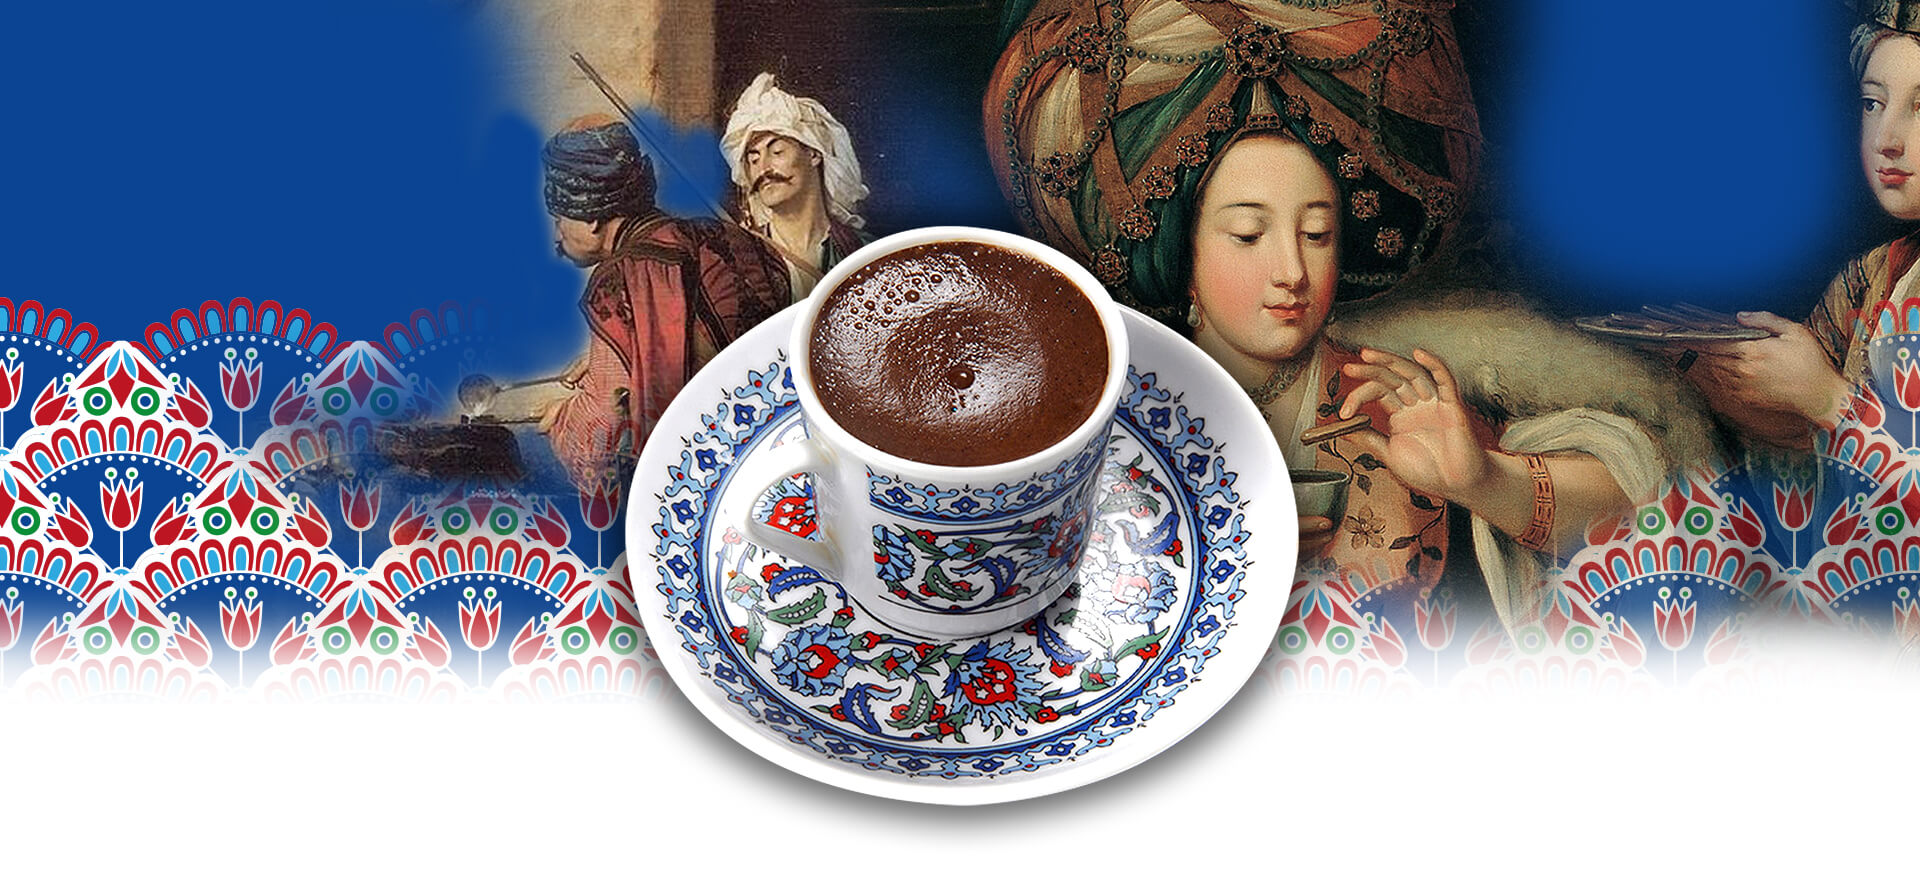
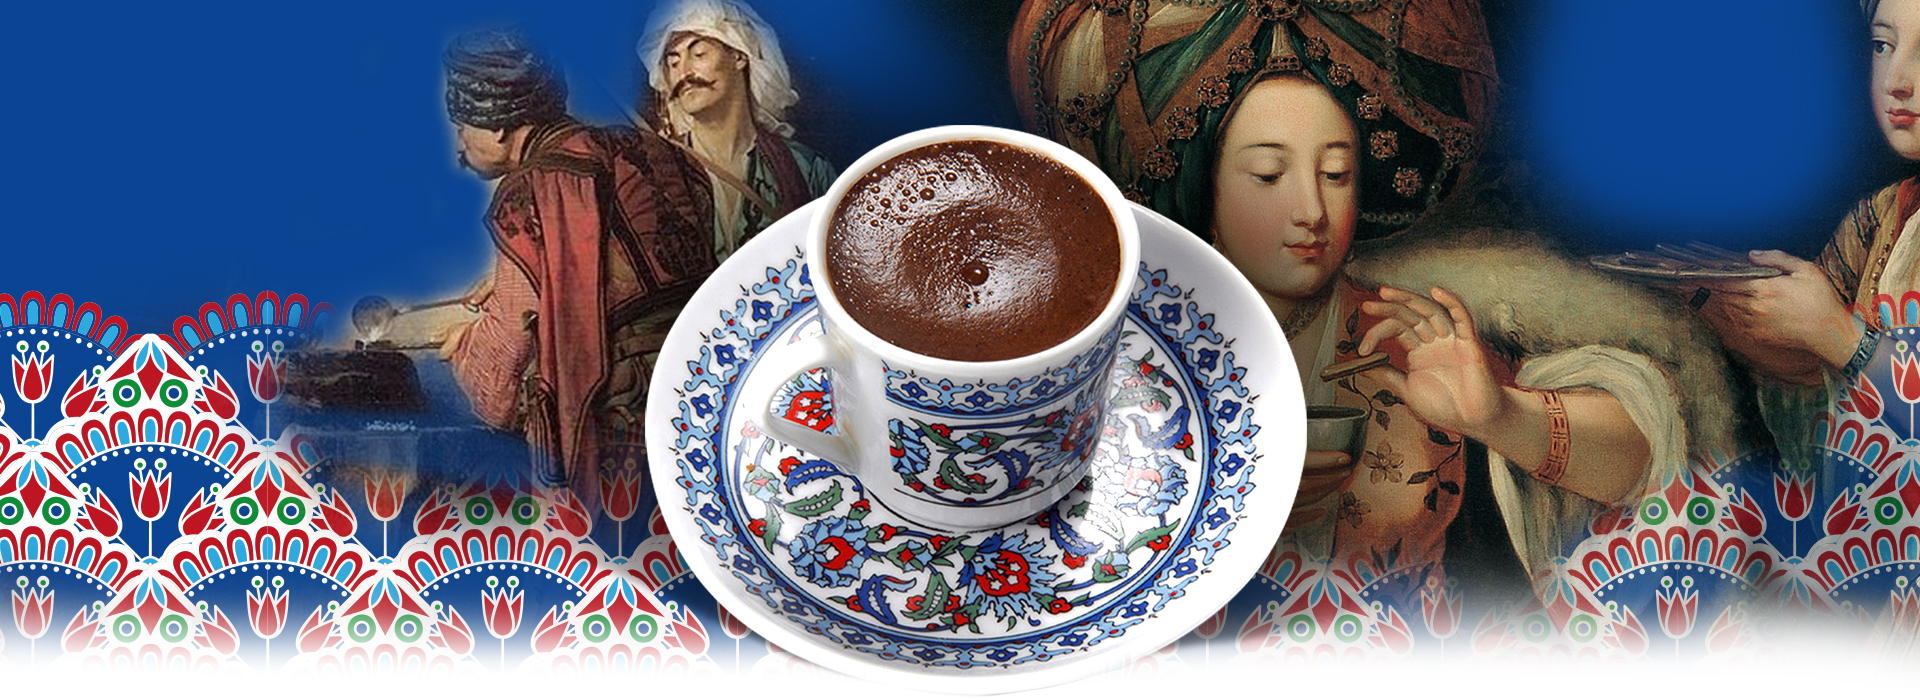
upgrade revize

diff --git a/morchi/index.html b/morchi/index.html
@@ -43,7 +43,7 @@
     </header>
     <section class="slider-section">
         <div class="slider-img">
-            <img src="assets/img/slider.jpg" alt="Slider Image">
+            <img src="assets/img/slider-1.jpg" alt="Slider Image">
         </div>
     </section>
     <section class="priority-section">
@@ -100,7 +100,7 @@
                 <div class="col-md-5">
                     <h1 class="about-big-title">En iyi kahvenin <span>peşinde</span>, tutkuyla…</h1>
                     <div class="about-title__line">
-                        <img src="assets/img/line-white.png" alt="Line image">
+                        <img src="assets/img/custom-line.png" alt="Line image">
                     </div>
                 </div>
             </div>
@@ -180,23 +180,24 @@
                     </div>
                     <div class="instagram-info__title">
                         <h3>İnstagram’da Bizi Takip Edin!</h3>
-                        <a href="#" target="_blank">/morchi.co</a>
+                        <a href="https://www.instagram.com/morchi.co/" target="_blank">/morchi.co</a>
+                        <div class="instagram-line"><img src="assets/img/line-white.png" alt="Line"></div>
                     </div>
                 </div>
             </div>
             <div class="col-md-12 col-lg-8">
                 <div class="instagram-slider">
                     <div class="instagram-slider__item">
-                        <a href="#"><img src="assets/img/instagram-1.jpg" alt="Instagram Image"></a>
+                        <a href="https://www.instagram.com/morchi.co/"><img src="assets/img/instagram-1.jpg" alt="Instagram Image"></a>
                     </div>
                     <div class="instagram-slider__item">
-                        <a href="#"><img src="assets/img/instagram-2.jpg" alt="Instagram Image"></a>
+                        <a href="https://www.instagram.com/morchi.co/"><img src="assets/img/instagram-2.jpg" alt="Instagram Image"></a>
                     </div>
                     <div class="instagram-slider__item">
-                        <a href="#"><img src="assets/img/instagram-3.jpg" alt="Instagram Image"></a>
+                        <a href="https://www.instagram.com/morchi.co/"><img src="assets/img/instagram-3.jpg" alt="Instagram Image"></a>
                     </div>
                     <div class="instagram-slider__item">
-                        <a href="#"><img src="assets/img/instagram-4.jpg" alt="Instagram Image"></a>
+                        <a href="https://www.instagram.com/morchi.co/"><img src="assets/img/instagram-4.jpg" alt="Instagram Image"></a>
                     </div>
                 </div>
             </div>
@@ -225,7 +226,7 @@
                         <li><a href="#"><img src="assets/img/youtube-logo.png" alt="YouTube"></a></li>
                         <li><a href="#"><img src="assets/img/facebook-logo.png" alt="facebook"></a></li>
                         <li><a href="#"><img src="assets/img/linkedin-logo.png" alt="linkedin logo"></a></li>
-                        <li><a href="#">/morchi.co</a></li>
+                        <li><a href="https://www.instagram.com/morchi.co/">/morchi.co</a></li>
                     </div>
                 </div>
             </div>

diff --git a/morchi/assets/css/style.css b/morchi/assets/css/style.css
@@ -1,25 +1,30 @@
 body {
     font-family: 'Metropolis-Regular', sans-serif;
     font-size: 14px;
+    color: #391c00;
+    overflow-x: hidden;
 }
 
 a {
     text-decoration: none;
-    color: #000;
+    color: #391c00;
     font-family: 'Metropolis-Regular', sans-serif;
 }
 
 h1, h2, h3, h4, h4, h5, h6 {
     font-family: 'Metropolis-Bold', sans-serif;
+    color: #391c00;
 }
 
 p {
     font-family: 'Metropolis-Regular', sans-serif;
+    color: #391c00;
 }
 
 ul,li {
     list-style: none;
     font-family: 'Metropolis-Regular', sans-serif;
+    color: #391c00;
 }
 
 img {
@@ -38,7 +43,7 @@ img {
 }
 
 .header .container {
-    background: url(../img/menu-bg.png);
+    background: url(../img/header.png);
     background-repeat: no-repeat;
     background-size: contain;
 }
@@ -58,11 +63,12 @@ img {
 }
 
 .menu-item a {
-    font-size: 17px;
+    font-size: 18px;
+    color: #391c00;
 }
 
 .menu-item a:hover {
-    color: #4b7021;
+    color: #586e2a;
 }
 
 .menu-logo img {
@@ -74,8 +80,12 @@ img {
     right: 0;
 }
 
+.lang-item a {
+    font-size: 16px;
+}
+
 .lang-item img {
-    width: 20px;
+    width: 25px;
 }
 
 .mobile-menu, .mobile-full-area {
@@ -150,12 +160,12 @@ img {
 .about-section::after {
     content: '';
     position: absolute;
-    right: 0;
+    right: -65px;
     top: -160px;
     background: url(../img/open-koffe.png);
     background-repeat: no-repeat;
     background-size: contain;
-    width: 230px;
+    width: 300px;
     height: 100%;
 }
 
@@ -178,10 +188,12 @@ img {
 .about-section h4 {
     font-size: 24px;
     margin-bottom: 20px;
+    color: #fff;
 }
 
 .about-section p {
     margin-bottom: 20px;
+    color: #fff;
 }
 
 .about-big-title {
@@ -189,6 +201,7 @@ img {
     line-height: 70px;
     width: 60%;
     font-family: 'Metropolis-BoldItalic', sans-serif;
+    color: #fff;
 }
 
 .about-big-title span {
@@ -252,7 +265,7 @@ img {
 
 .item-info_number {
     font-size: 76px;
-    color: #4b7021;
+    color: #391c00;
     font-family: 'Metropolis-ExtraBold';
     line-height: 55px;
 }
@@ -260,6 +273,7 @@ img {
 .item-info_title {
     font-weight: 700;
     font-size: 35px;
+    font-family: 'Metropolis-Bold';
 }
 
 .item-info_title span {
@@ -310,10 +324,12 @@ img {
 
 .contact-box__dsc p {
     margin: 0;
+    color: #4b7021;
 }
 
-.contact-box__title {
+.contact-box__title h3 {
     font-size: 34px;
+    color: #4b7021;
 }
 
 .contact-box__number {
@@ -350,9 +366,11 @@ img {
 
 .instagram-info__title h3 {
     font-family: 'Metropolis-Medium';
+    color: #fff;
 }
 
 .instagram-info {
+    position: relative;
     display: flex;
     justify-content: flex-end;
     align-items: center;
@@ -363,6 +381,16 @@ img {
 
 .instagram-info a {
     color: #fff;
+}
+
+.instagram-line {
+    position: absolute;
+    bottom: 0;
+    right: 0;
+}
+
+.instagram-line img {
+    width: 100px;
 }
 
 .instagram-slider {
@@ -573,6 +601,6 @@ img {
 }
 
 .footer-social li a img {
-    object-fit: contain;
-    width: 15px;
+    width: 20px;
+    height: 18px;
 }

diff --git a/morchi/assets/css/responsive.css b/morchi/assets/css/responsive.css
@@ -4,7 +4,7 @@
     }
     
     .about-section_line-bottom {
-        bottom: -7.9%;
+        bottom: -7.7%;
     }
 }
 
@@ -61,7 +61,7 @@
     }
     
     .about-section_line-bottom {
-        bottom: -3.9%;
+        bottom: -3.7%;
     }
 
     .product-item {
@@ -121,8 +121,14 @@
     .about-section_line-bottom {
         bottom: -1.9%;
     }
+
     .contact-box {
         width: 80%;
+    }
+
+    .product-item {
+        width: 95%;
+        padding: 30px 15px;
     }
 
     .footer-menu {
@@ -225,8 +231,9 @@
     }
 
     .about-section::after {
-        width: 110px;
-        top: -100px;
+        width: 140px;
+        top: -130px;
+        right: 0;
     }
 
     .product-bloc__grid::after, .product-bloc__grid::before, .dot-icon {
